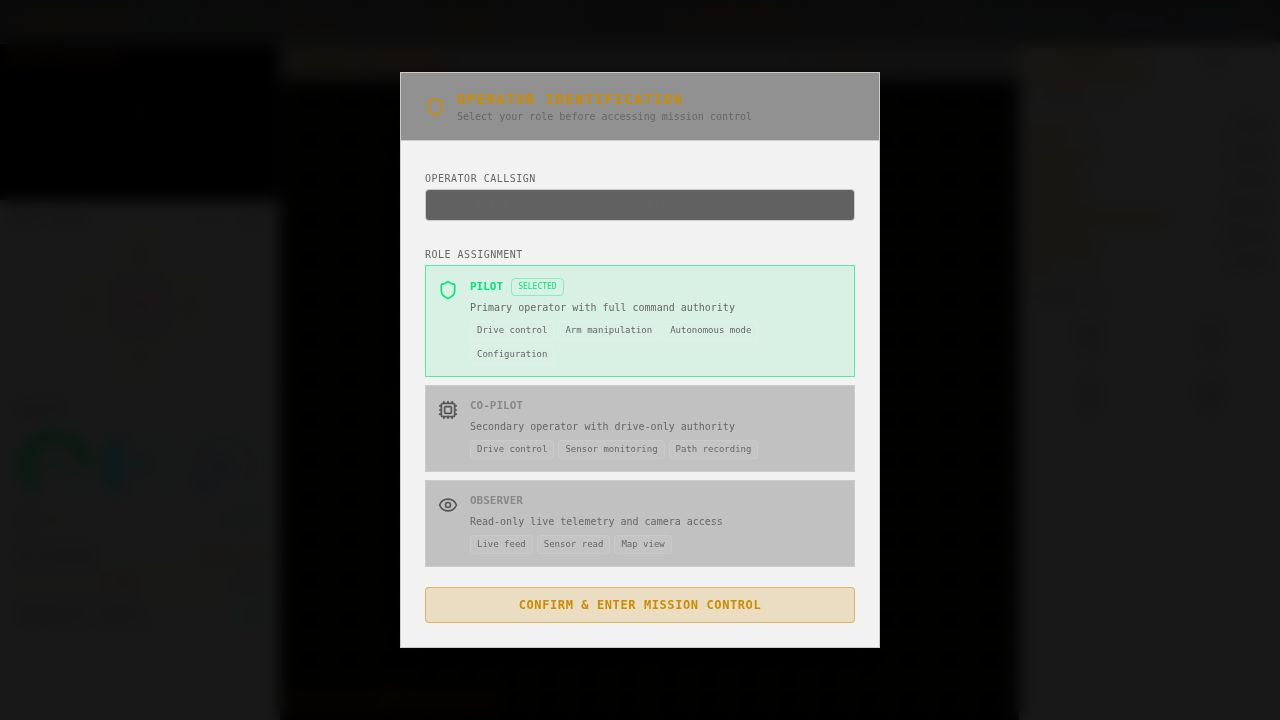
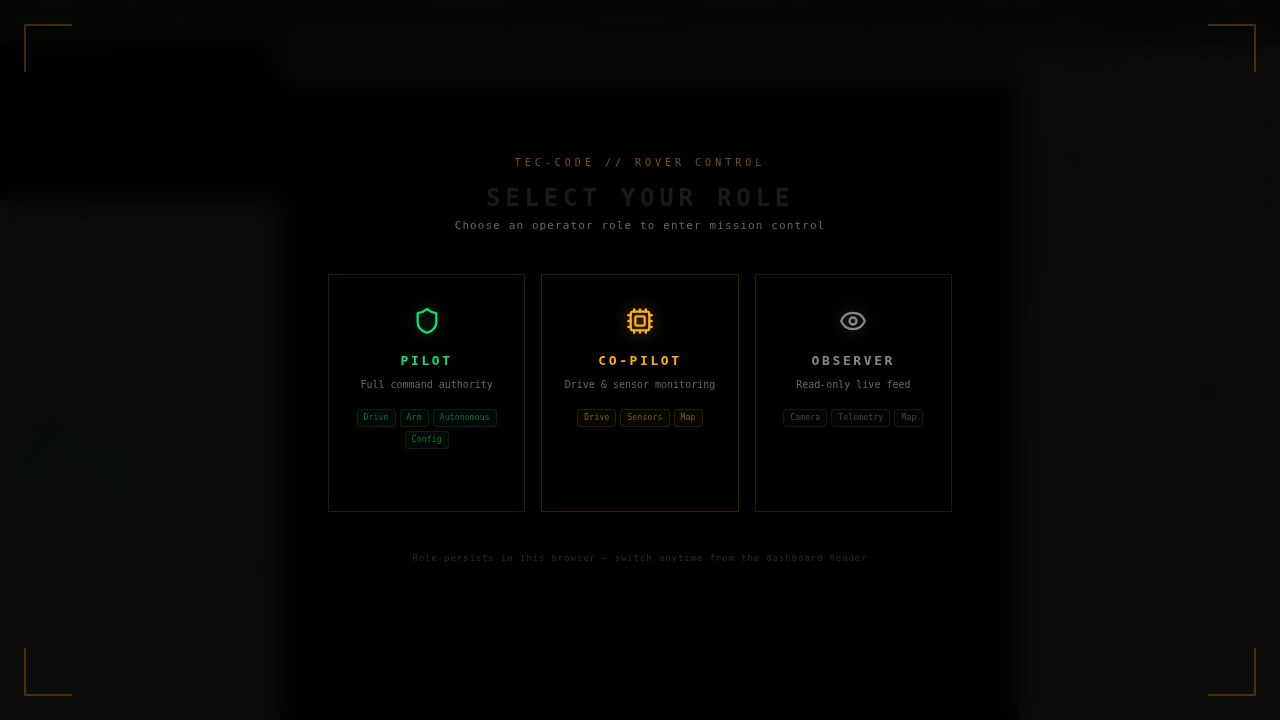
Simplify operator role selection by removing callsign requirement
Streamline the operator selection interface by removing the callsign input, making role selection more direct and visually prominent with larger cards.

Replit-Commit-Author: Agent
Replit-Commit-Session-Id: a4787278-0772-4288-9527-24958a583956
Replit-Commit-Checkpoint-Type: full_checkpoint
Replit-Commit-Event-Id: b45f627f-0ac1-4f30-ab0b-28f4b9c1d388
Replit-Commit-Screenshot-Url: https://storage.googleapis.com/screenshot-production-us-central1/b13c54e4-f011-4450-a9d0-5de577893592/a4787278-0772-4288-9527-24958a583956/pXz6wYH
Replit-Helium-Checkpoint-Created: true

diff --git a/artifacts/rover-control/src/components/operator-selector.tsx b/artifacts/rover-control/src/components/operator-selector.tsx
@@ -1,28 +1,43 @@
-import { useState } from "react";
-import { type OperatorRole, type OperatorMeta } from "@/hooks/use-operator-role";
+import { type OperatorRole } from "@/hooks/use-operator-role";
 import { Shield, Eye, Cpu } from "lucide-react";
 
-const ROLES: { role: OperatorRole; icon: React.ReactNode; meta: OperatorMeta; badge: string; perms: string[] }[] = [
+interface RoleConfig {
+  role: OperatorRole;
+  icon: React.ReactNode;
+  label: string;
+  color: string;
+  glowColor: string;
+  description: string;
+  perms: string[];
+}
+
+const ROLES: RoleConfig[] = [
   {
     role: "pilot",
-    icon: <Shield className="w-5 h-5" />,
-    meta: { label: "PILOT", color: "#00e676", description: "Primary operator with full command authority" },
-    badge: "border-[#00e676]/60 bg-[#00e676]/10",
-    perms: ["Drive control", "Arm manipulation", "Autonomous mode", "Configuration"],
+    icon: <Shield className="w-7 h-7" />,
+    label: "PILOT",
+    color: "#00e676",
+    glowColor: "rgba(0,230,118,0.15)",
+    description: "Full command authority",
+    perms: ["Drive", "Arm", "Autonomous", "Config"],
   },
   {
     role: "co-pilot",
-    icon: <Cpu className="w-5 h-5" />,
-    meta: { label: "CO-PILOT", color: "#ffb000", description: "Secondary operator with drive-only authority" },
-    badge: "border-[#ffb000]/60 bg-[#ffb000]/10",
-    perms: ["Drive control", "Sensor monitoring", "Path recording"],
+    icon: <Cpu className="w-7 h-7" />,
+    label: "CO-PILOT",
+    color: "#ffb000",
+    glowColor: "rgba(255,176,0,0.15)",
+    description: "Drive & sensor monitoring",
+    perms: ["Drive", "Sensors", "Map"],
   },
   {
     role: "observer",
-    icon: <Eye className="w-5 h-5" />,
-    meta: { label: "OBSERVER", color: "#888", description: "Read-only live telemetry and camera access" },
-    badge: "border-border bg-muted/20",
-    perms: ["Live feed", "Sensor read", "Map view"],
+    icon: <Eye className="w-7 h-7" />,
+    label: "OBSERVER",
+    color: "#888888",
+    glowColor: "rgba(136,136,136,0.12)",
+    description: "Read-only live feed",
+    perms: ["Camera", "Telemetry", "Map"],
   },
 ];
 
@@ -31,66 +46,91 @@ interface Props {
 }
 
 export function OperatorSelector({ onConfirm }: Props) {
-  const [selected, setSelected] = useState<OperatorRole>("pilot");
-  const [name, setName] = useState("");
-
   return (
-    <div className="fixed inset-0 z-50 flex items-center justify-center bg-black/90 backdrop-blur-sm font-mono">
-      <div className="w-[480px] border border-border rounded-lg bg-background shadow-2xl overflow-hidden">
-        <div className="flex items-center gap-3 px-6 py-4 border-b border-border bg-black/40">
-          <Shield className="w-5 h-5 text-primary" />
-          <div>
-            <div className="font-bold text-sm tracking-widest text-primary">OPERATOR IDENTIFICATION</div>
-            <div className="text-[10px] text-muted-foreground">Select your role before accessing mission control</div>
-          </div>
+    <div className="fixed inset-0 z-50 flex flex-col items-center justify-center bg-black/95 backdrop-blur-md font-mono">
+
+      {/* Scan-line texture */}
+      <div className="absolute inset-0 pointer-events-none"
+        style={{ background: "repeating-linear-gradient(0deg,transparent,transparent 2px,rgba(0,0,0,0.08) 2px,rgba(0,0,0,0.08) 4px)" }} />
+
+      {/* Corner brackets */}
+      <div className="absolute top-6 left-6 w-12 h-12 border-t-2 border-l-2 border-primary/30" />
+      <div className="absolute top-6 right-6 w-12 h-12 border-t-2 border-r-2 border-primary/30" />
+      <div className="absolute bottom-6 left-6 w-12 h-12 border-b-2 border-l-2 border-primary/30" />
+      <div className="absolute bottom-6 right-6 w-12 h-12 border-b-2 border-r-2 border-primary/30" />
+
+      <div className="relative z-10 flex flex-col items-center gap-10 w-full max-w-2xl px-6">
+
+        {/* Header */}
+        <div className="text-center space-y-1">
+          <div className="text-[10px] tracking-[0.4em] text-primary/60 uppercase mb-3">Tec-code // Rover Control</div>
+          <h1 className="text-2xl font-bold tracking-[0.2em] text-foreground uppercase">
+            Select Your Role
+          </h1>
+          <p className="text-[11px] text-muted-foreground tracking-widest">Choose an operator role to enter mission control</p>
         </div>
 
-        <div className="p-6 space-y-5">
-          <div className="space-y-1.5">
-            <label className="text-[10px] text-muted-foreground uppercase tracking-wider">Operator Callsign</label>
-            <input
-              value={name}
-              onChange={(e) => setName(e.target.value)}
-              onKeyDown={(e) => { if (e.key === "Enter") onConfirm(selected, name); }}
-              placeholder="e.g. ALPHA-1, Commander, Dr. Chen…"
-              className="w-full h-8 bg-black/60 border border-border rounded px-3 text-[12px] font-mono focus:outline-none focus:border-primary transition-colors placeholder:text-muted-foreground/40"
-            />
-          </div>
+        {/* Role cards */}
+        <div className="grid grid-cols-3 gap-4 w-full">
+          {ROLES.map((r) => (
+            <button
+              key={r.role}
+              onClick={() => onConfirm(r.role, "")}
+              className="group relative flex flex-col items-center gap-4 py-8 px-4 border rounded-lg transition-all duration-200 hover:scale-[1.03] active:scale-[0.98] focus:outline-none"
+              style={{
+                borderColor: `${r.color}30`,
+                background: "rgba(0,0,0,0.6)",
+              }}
+              onMouseEnter={(e) => {
+                (e.currentTarget as HTMLButtonElement).style.borderColor = `${r.color}90`;
+                (e.currentTarget as HTMLButtonElement).style.background = r.glowColor;
+                (e.currentTarget as HTMLButtonElement).style.boxShadow = `0 0 32px ${r.color}20, inset 0 0 24px ${r.color}08`;
+              }}
+              onMouseLeave={(e) => {
+                (e.currentTarget as HTMLButtonElement).style.borderColor = `${r.color}30`;
+                (e.currentTarget as HTMLButtonElement).style.background = "rgba(0,0,0,0.6)";
+                (e.currentTarget as HTMLButtonElement).style.boxShadow = "";
+              }}
+            >
+              {/* Icon */}
+              <div className="transition-transform duration-200 group-hover:scale-110"
+                style={{ color: r.color, filter: `drop-shadow(0 0 8px ${r.color}60)` }}>
+                {r.icon}
+              </div>
 
-          <div className="space-y-1.5">
-            <label className="text-[10px] text-muted-foreground uppercase tracking-wider">Role Assignment</label>
-            <div className="space-y-2">
-              {ROLES.map((r) => {
-                const active = selected === r.role;
-                return (
-                  <button key={r.role} onClick={() => setSelected(r.role)}
-                    className={`w-full text-left border rounded-md p-3 transition-all ${active ? r.badge : "border-border bg-black/20 hover:border-border/80"}`}>
-                    <div className="flex items-start gap-3">
-                      <span style={{ color: active ? r.meta.color : "#555" }} className="mt-0.5 shrink-0">{r.icon}</span>
-                      <div className="flex-1 min-w-0">
-                        <div className="flex items-center gap-2 mb-1">
-                          <span className="text-[11px] font-bold" style={{ color: active ? r.meta.color : "#888" }}>{r.meta.label}</span>
-                          {active && <span className="text-[8px] px-1.5 py-0.5 border rounded" style={{ borderColor: r.meta.color + "60", color: r.meta.color }}>SELECTED</span>}
-                        </div>
-                        <div className="text-[10px] text-muted-foreground mb-1.5">{r.meta.description}</div>
-                        <div className="flex flex-wrap gap-1">
-                          {r.perms.map((p) => (
-                            <span key={p} className="text-[9px] px-1.5 py-0.5 bg-white/5 border border-white/10 rounded text-muted-foreground">{p}</span>
-                          ))}
-                        </div>
-                      </div>
-                    </div>
-                  </button>
-                );
-              })}
-            </div>
-          </div>
+              {/* Label */}
+              <div className="space-y-1.5 text-center">
+                <div className="text-[13px] font-bold tracking-[0.2em]" style={{ color: r.color }}>
+                  {r.label}
+                </div>
+                <div className="text-[10px] text-muted-foreground leading-relaxed">
+                  {r.description}
+                </div>
+              </div>
 
-          <button onClick={() => onConfirm(selected, name)}
-            className="w-full h-9 bg-primary/20 hover:bg-primary/30 border border-primary/50 text-primary font-bold text-[12px] tracking-wider rounded transition-colors">
-            CONFIRM &amp; ENTER MISSION CONTROL
-          </button>
+              {/* Permission tags */}
+              <div className="flex flex-wrap justify-center gap-1">
+                {r.perms.map((p) => (
+                  <span key={p}
+                    className="text-[8px] px-1.5 py-0.5 rounded border tracking-wide"
+                    style={{ borderColor: `${r.color}25`, color: `${r.color}80`, background: `${r.color}08` }}>
+                    {p}
+                  </span>
+                ))}
+              </div>
+
+              {/* Bottom enter hint */}
+              <div className="text-[9px] tracking-widest transition-opacity duration-200 opacity-0 group-hover:opacity-100"
+                style={{ color: r.color }}>
+                ENTER →
+              </div>
+            </button>
+          ))}
         </div>
+
+        <p className="text-[9px] text-muted-foreground/40 tracking-widest">
+          Role persists in this browser — switch anytime from the dashboard header
+        </p>
       </div>
     </div>
   );
